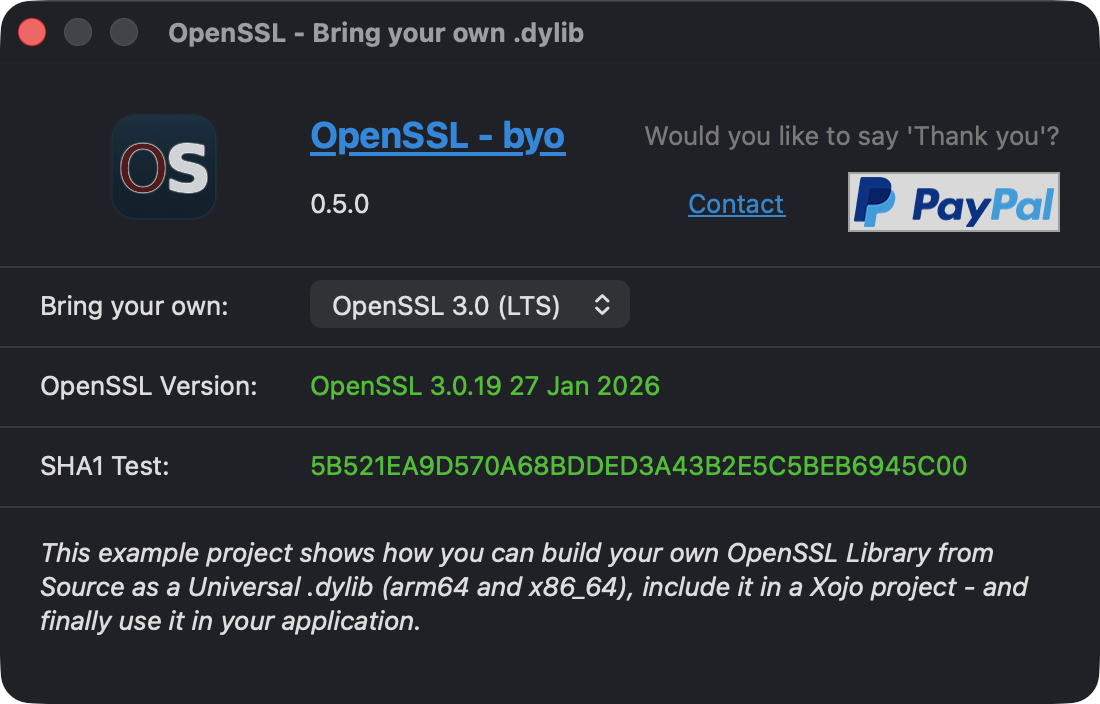
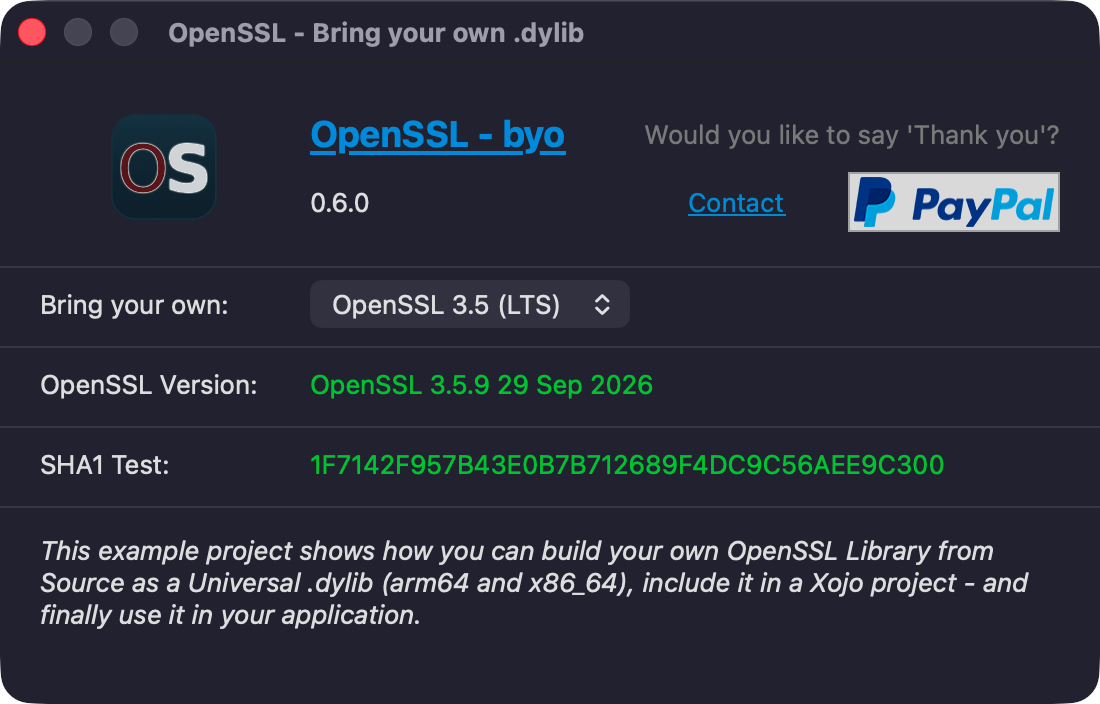
Update Example Project

diff --git a/README.md b/README.md
@@ -13,11 +13,11 @@ Included in this repository:
 - [How to: Build OpenSSL on macOS](./openssl)  
   - A [Shell Script](./openssl/3.5/build.sh) you can use as a template to build the [OpenSSL Library](https://openssl-library.org) yourself
 - [How to: Build LibreSSL on macOS](./libressl)  
-  - A [Shell Script](./libressl/4.2.1/build.sh) you can use as a template to build [LibreSSL](https://www.libressl.org) yourself
+  - A [Shell Script](./libressl/4.4/build.sh) you can use as a template to build [LibreSSL](https://www.libressl.org) yourself
 - Example Xojo Project - showing how to bundle your own built ```.dylib```'s in your application
 
 ### ScreenShots
-Using OpenSSL 3.0.x in a Xojo built application  
+Using OpenSSL 3.5.x in a Xojo built application  
 ![ScreenShot: OpenSSL - byo](screenshots/example_openssl-3.png?raw=true)
 
 
@@ -26,7 +26,7 @@ Using OpenSSL 3.0.x in a Xojo built application
 [Xojo](https://www.xojo.com/) is a rapid application development for Desktop, Web, Mobile & Raspberry Pi.  
 
 The Desktop application Xojo example project ```openssl-byo.xojo_project``` is using:
-- Xojo 2025r3.1
+- Xojo 2026r1.2
 - API 2
 
 ### How to use in your own Xojo project?
